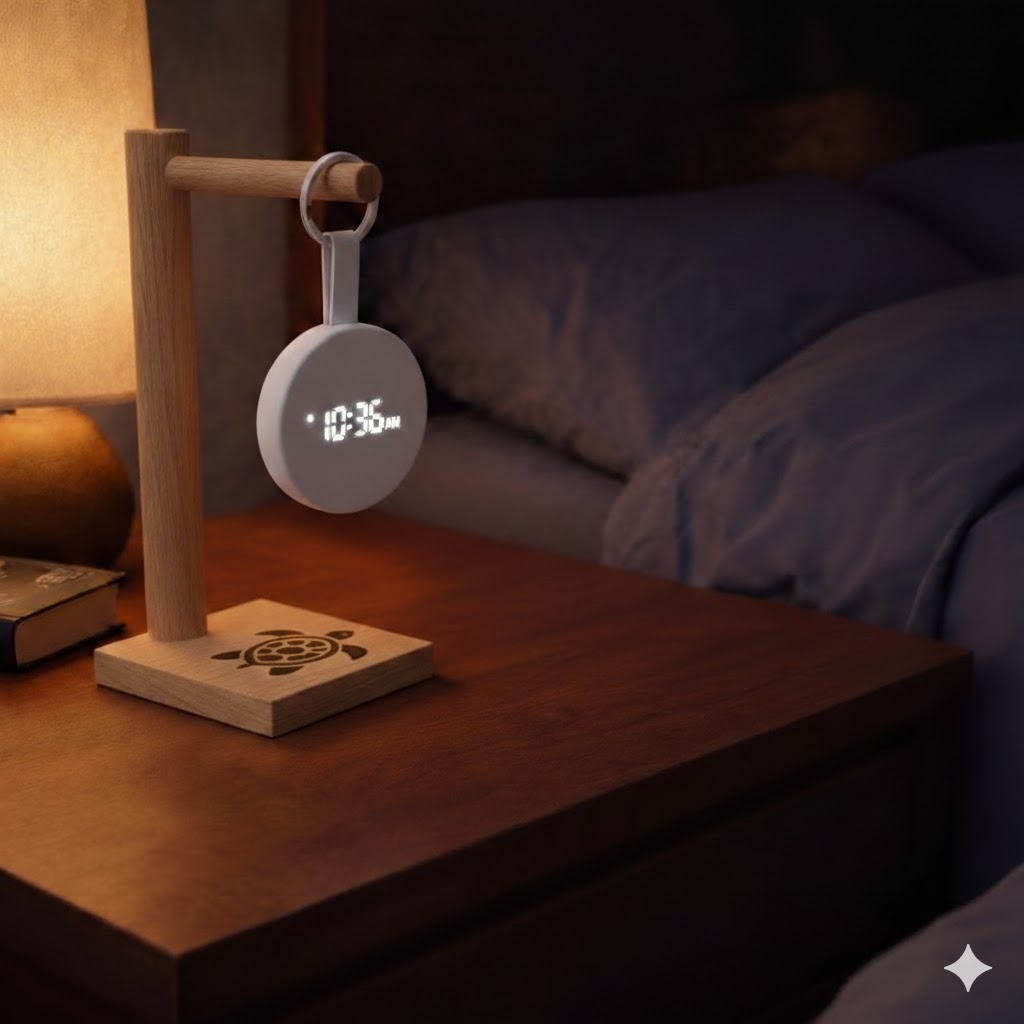
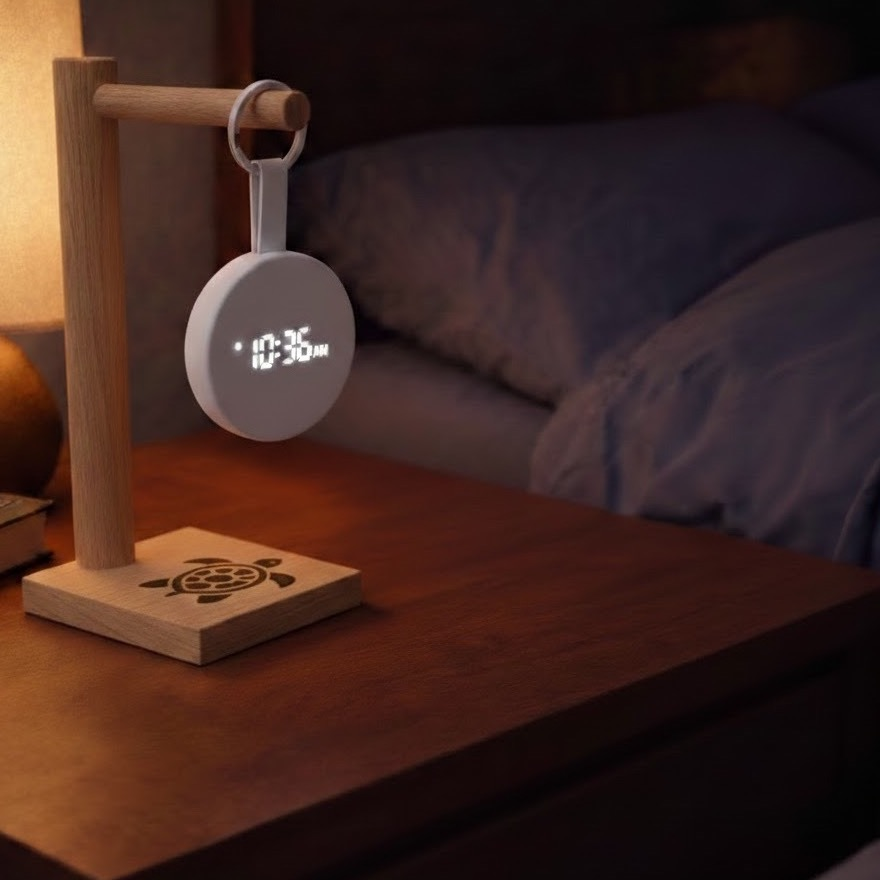
Revert hero bg to #f6f6f6 and crop watermark from lifestyle image

diff --git a/components/Hero.tsx b/components/Hero.tsx
@@ -10,7 +10,7 @@ interface HeroProps {
 
 export default function Hero({ onPreOrderClick }: HeroProps) {
   return (
-    <section className="relative min-h-screen flex items-center justify-center px-4 pt-8 pb-20 overflow-hidden bg-white">
+    <section className="relative min-h-screen flex items-center justify-center px-4 pt-8 pb-20 overflow-hidden bg-[#f6f6f6]">
       <div className="relative max-w-6xl mx-auto">
         <div className="grid lg:grid-cols-2 gap-16 lg:gap-12 items-center">
           {/* Text Content */}
